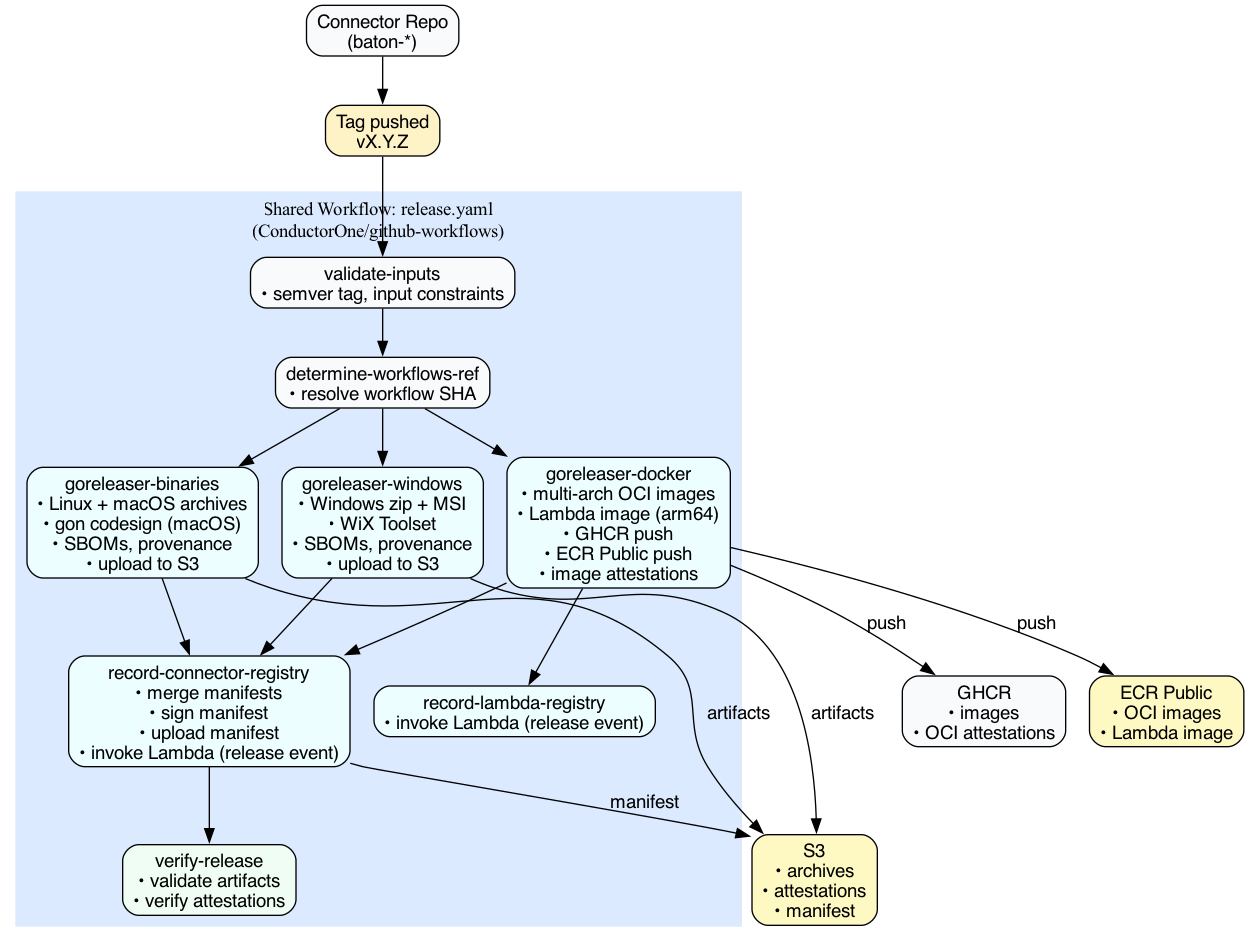
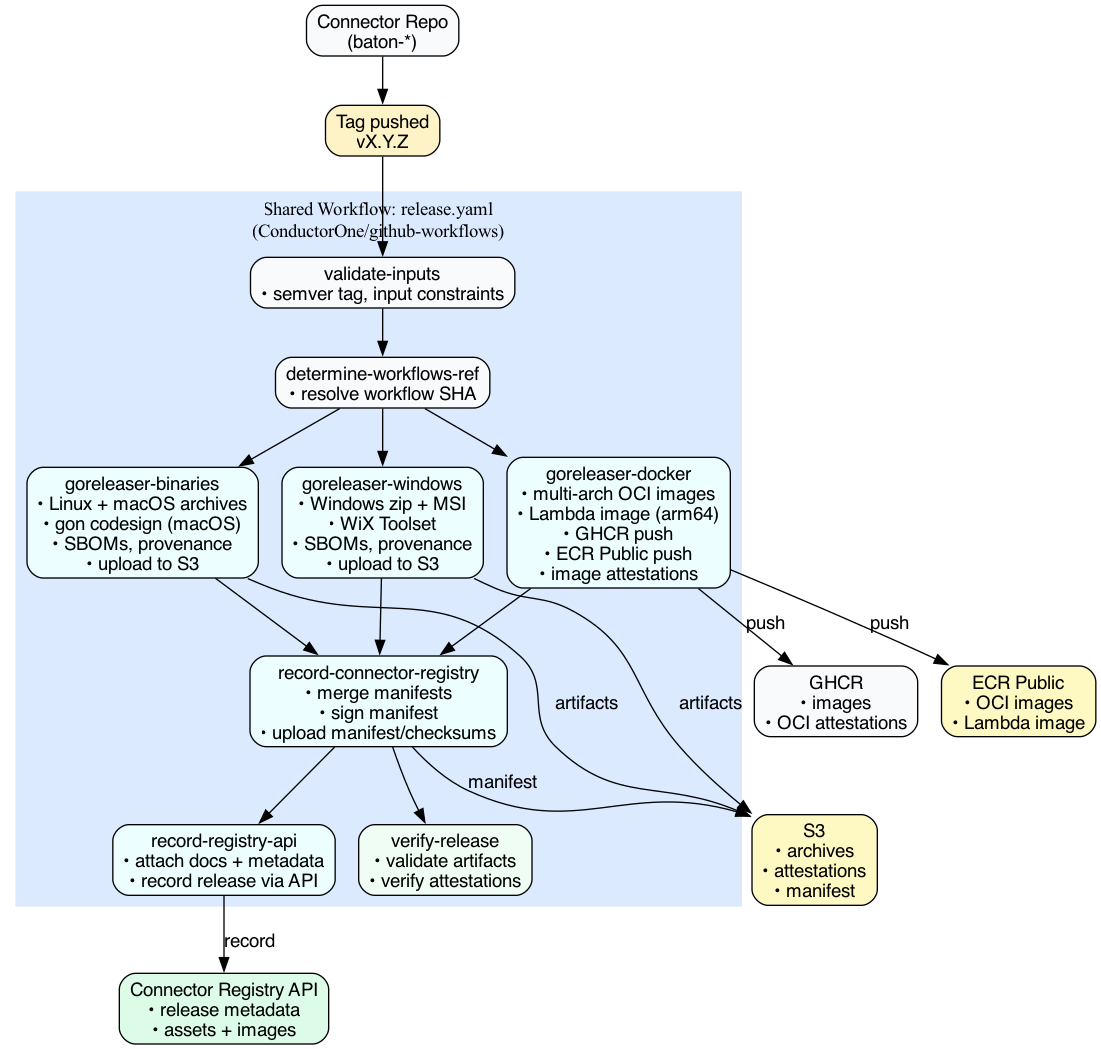
Remove legacy release recording lambdas

Changed region(s): [[0.0, 0.0, 1.0, 1.0]]

diff --git a/docs/release-workflow.md b/docs/release-workflow.md
@@ -14,7 +14,7 @@ When a tag is pushed to a connector repository, the shared release workflow:
 4. Signs all artifacts with Sigstore (keyless)
 5. Generates SLSA provenance attestations
 6. Publishes to S3, GHCR, and ECR Public
-7. Records the release in the connector registry
+7. Records the release in the connector registry API
 
 ## Jobs
 
@@ -74,13 +74,22 @@ Builds and publishes container images:
 
 ### record-connector-registry
 
-Finalizes the release:
+Finalizes distributable release artifacts:
 
 - Creates unified checksums file (all platforms)
 - Merges binary, Windows, and image manifests
 - Signs `manifest.json` and checksums with Sigstore
 - Uploads manifest and checksums to S3
-- Invokes release recording Lambda
+- Exposes the final manifest to the registry API recording job
+
+### record-registry-api
+
+Records release metadata in the connector registry API:
+
+- Reuses the exact manifest uploaded to S3
+- Includes documentation and changelog data when present
+- Includes `config_schema.json` and `baton_capabilities.json` when present
+- Sends release timestamp, commit SHA, and workflow run metadata
 
 ### verify-release
 